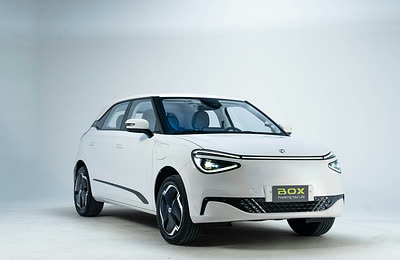
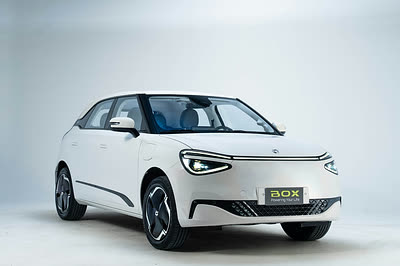
Las Vigo dejan de verse lejos: el problema estaba en el origen
Daniel lo dijo tres veces y yo seguía buscándolo en el maquetado. Medido
buscando las partes oscuras del vehículo —ruedas, ventanas, parrilla, que son
las que marcan su ancho real—:

  box/azul-tresq     el carro ocupa el 74% del cuadro
  box/blanco-tresq   64%
  vigo/e2-tresq      46%
  vigo/e2mas-tresq   46%

No era el marco ni el object-fit: las dos fotos de la Vigo vienen con el carro
a menos de la mitad del cuadro y todo lo demás es ciclorama. Servidas tal cual,
al lado de un Box al 74%, se ven lejísimos —y con razón—.

Las cinco portadas de estudio se recortan ahora a un 78% común. El cálculo va
en build-img.sh, así que una foto nueva entra derecha sin tener que acordarse.

Los tres colores del Box comparten EL MISMO recorte a propósito: el selector
cruza la opacidad entre ellos y con encuadres distintos el carro daría un salto
en vez de pintarse.

Claude-Session: https://claude.ai/code/session_014dPbAeqdbSvxnw8YMzdJ4T

Changed region(s): [[0.09, 0.3385, 0.87, 0.9846]]

diff --git a/catalogo.js b/catalogo.js
@@ -24,7 +24,7 @@ var CATALOGO = {
     autonomia: 430, autonomiaReal: 310, potencia: 94, torque: 160,
     bateria: 43.89, largo: 4045, plazas: 5,
     pos: "center 52%",
-    campo: "#d9e4eb",
+    campo: "#dbe5ec",
     foto: "box/azul-tresq",
     colores: [
       { id: "azul",   nombre: "Azul",   hex: "#8fb4c9", foto: "box/azul-tresq" },
@@ -44,7 +44,7 @@ var CATALOGO = {
     autonomia: 430, autonomiaReal: 310, potencia: 94, torque: 160,
     bateria: 43.89, largo: 4045, plazas: 5,
     pos: "center 52%",
-    campo: "#c0ccd2",
+    campo: "#c2cdd3",
     foto: "box/blanco-tresq",
     colores: [
       { id: "azul",   nombre: "Azul",   hex: "#8fb4c9", foto: "box/azul-tresq" },
@@ -64,7 +64,7 @@ var CATALOGO = {
     autonomia: 401, autonomiaReal: 296, potencia: 161, torque: 230,
     bateria: 44.94, largo: 4292, plazas: 5,
     pos: "center 50%",
-    campo: "#e7e4e5",
+    campo: "#f4f2f2",
     foto: "vigo/e2-tresq",
     colores: [{ id: "naranja", nombre: "Naranja", hex: "#e2652a", foto: "vigo/e2-tresq" }],
     galeria: ["vigo/e2-tresq", "vigo/e2-frontal", "vigo/e2-lateral", "vigo/e2-trasera", "vigo/e2-interior"],
@@ -81,7 +81,7 @@ var CATALOGO = {
     autonomia: 470, autonomiaReal: 340, potencia: 161, torque: 230,
     bateria: 51.87, largo: 4292, plazas: 5,
     pos: "center 50%",
-    campo: "#e8e8eb",
+    campo: "#f4f4f5",
     foto: "vigo/e2mas-tresq",
     colores: [{ id: "blanco", nombre: "Blanco", hex: "#e9e9e7", foto: "vigo/e2mas-tresq" }],
     galeria: ["vigo/e2mas-tresq", "vigo/e2mas-frontal", "vigo/e2mas-lateral", "vigo/e2mas-trasera"],
